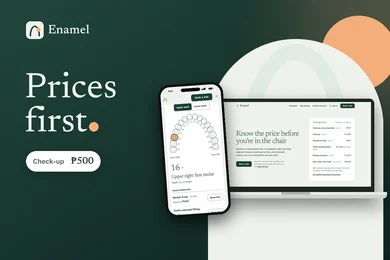
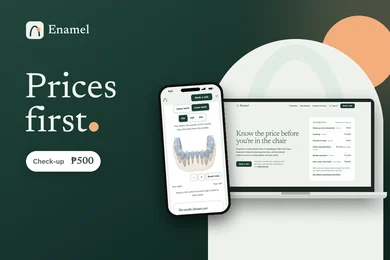
minor: Show two phone screens per project and refresh Enamel's images

Changed region(s): [[0.4308, 0.3692, 0.5846, 0.8308]]

diff --git a/app/works/enamel/index.html b/app/works/enamel/index.html
@@ -37,7 +37,7 @@
             <p class="mt-4 max-w-[32rem] text-lead">Prices first. A family dental clinic that shows what a visit costs before you book, and explains the HMO paperwork before the first visit.</p>
           </div>
           <div class="col-span-4 grid self-center md:col-span-5 lg:col-span-3 lg:col-start-9" data-reveal-item><svg class="w-full max-w-[16rem] justify-self-center lg:justify-self-end" viewBox="0 0 32 32" aria-hidden="true" focusable="false"><path class="fill-none stroke-enamel" d="M8 26C8 16.5 11.6 9 16 9s8 7.5 8 17" stroke-width="1.2" stroke-linecap="round" /><circle class="fill-enamel-dot" cx="22.4" cy="15" r="2.2" /></svg></div>
-          <dl class="col-span-4 grid gap-x-[var(--gap)] gap-y-5 sm:grid-cols-2 md:col-span-12 lg:col-span-10 lg:col-start-3 lg:grid-cols-4" data-reveal-item><div class="border-t border-enamel/30 pt-3"><dt class="text-sm font-[560]">Type</dt><dd class="mt-1">Family dental clinic</dd></div><div class="border-t border-enamel/30 pt-3"><dt class="text-sm font-[560]">What we made</dt><dd class="mt-1">The name, brand identity and a website with a tooth chart</dd></div><div class="border-t border-enamel/30 pt-3"><dt class="text-sm font-[560]">Timeline</dt><dd class="mt-1">Identity on day 1, the site on days 2 and 3</dd></div><div class="border-t border-enamel/30 pt-3"><dt class="text-sm font-[560]">Launched</dt><dd class="mt-1"><time datetime="2026-11-20">20 November 2026</time></dd></div></dl>
+          <dl class="col-span-4 grid gap-x-[var(--gap)] gap-y-5 sm:grid-cols-2 md:col-span-12 lg:col-span-10 lg:col-start-3 lg:grid-cols-4" data-reveal-item><div class="border-t border-enamel/30 pt-3"><dt class="text-sm font-[560]">Type</dt><dd class="mt-1">Family dental clinic</dd></div><div class="border-t border-enamel/30 pt-3"><dt class="text-sm font-[560]">What we made</dt><dd class="mt-1">The name, brand identity and a website with a 3D tooth chart</dd></div><div class="border-t border-enamel/30 pt-3"><dt class="text-sm font-[560]">Timeline</dt><dd class="mt-1">Identity on day 1, the site on days 2 and 3</dd></div><div class="border-t border-enamel/30 pt-3"><dt class="text-sm font-[560]">Launched</dt><dd class="mt-1"><time datetime="2026-11-20">20 November 2026</time></dd></div></dl>
         </div>
       </section>
 
@@ -46,14 +46,20 @@
         <div class="grid-page gap-y-8 pt-6">
           <p class="margin-no col-span-4 md:col-span-12 lg:col-span-2" aria-hidden="true" data-reveal-item>01</p>
           <h2 class="col-span-4 text-h3 md:col-span-12 lg:col-span-10" id="screens-title" data-reveal-item>Every price before the first visit</h2>
-          <figure class="flex flex-col col-span-4 md:col-span-9 lg:col-span-8 lg:col-start-3" data-reveal-item>
-            <img class="shot" src="/work/enamel-desktop-800.webp" srcset="/work/enamel-desktop-800.webp 800w, /work/enamel-desktop-1600.webp 1600w" sizes="(min-width: 88rem) 900px, (min-width: 64rem) 64vw, (min-width: 48rem) 72vw, 92vw" width="800" height="400" alt="Enamel’s treatments page on a desktop: a chart of teeth with the upper right first molar picked and its usual treatments listed" fetchpriority="high" />
-            <figcaption class="mt-auto pt-3 text-sm text-graphite">Tooth chart and prices, desktop</figcaption>
-          </figure>
-          <figure class="flex flex-col col-span-2 md:col-span-3 lg:col-span-2" data-reveal-item>
-            <img class="shot" src="/work/enamel-phone-390.webp" srcset="/work/enamel-phone-390.webp 390w, /work/enamel-phone-780.webp 780w" sizes="(min-width: 88rem) 210px, (min-width: 64rem) 15vw, (min-width: 48rem) 22vw, 45vw" width="390" height="780" alt="The tooth chart on a phone, one arch at a time, with a tooth picked" loading="lazy" />
-            <figcaption class="mt-auto pt-3 text-sm text-graphite">Tooth chart, phone</figcaption>
-          </figure>
+          <div class="col-span-4 grid grid-cols-2 gap-x-[var(--gap)] md:col-span-12 md:flex lg:col-span-10 lg:col-start-3 phone:grid">
+            <figure class="hidden flex-col md:flex md:basis-0 md:grow-4 phone:hidden" data-reveal-item>
+              <img class="shot" src="/work/enamel-desktop-800.webp" srcset="/work/enamel-desktop-800.webp 800w, /work/enamel-desktop-1600.webp 1600w" sizes="(min-width: 88rem) 750px, (min-width: 64rem) 52vw, 62vw" width="800" height="400" alt="Enamel’s treatments page on a desktop: the lower left first molar lifted out of the 3D model’s gum to show its roots, beside its usual treatments and starting prices" loading="lazy" />
+              <figcaption class="pt-3 text-sm text-graphite">3D tooth chart and prices, desktop</figcaption>
+            </figure>
+            <figure class="flex flex-col md:basis-0 md:grow" data-reveal-item>
+              <img class="shot" src="/work/enamel-phone-390.webp" srcset="/work/enamel-phone-390.webp 390w, /work/enamel-phone-780.webp 780w" sizes="(min-width: 88rem) 190px, (min-width: 64rem) 13vw, (min-width: 48rem) 15vw, 45vw" width="390" height="780" alt="Enamel’s 3D tooth model on a phone: the lower teeth seen from the front, with their roots showing through the gum" loading="lazy" />
+              <figcaption class="pt-3 text-sm text-graphite">3D tooth chart, phone</figcaption>
+            </figure>
+            <figure class="flex flex-col md:basis-0 md:grow" data-reveal-item>
+              <img class="shot" src="/work/enamel-booking-390.webp" srcset="/work/enamel-booking-390.webp 390w, /work/enamel-booking-780.webp 780w" sizes="(min-width: 88rem) 190px, (min-width: 64rem) 13vw, (min-width: 48rem) 15vw, 45vw" width="390" height="780" alt="A cleaning booked with Enamel on a phone: the treatment, the dentist, the time and the patient, with a preview of the six-month reminder below" loading="lazy" />
+              <figcaption class="pt-3 text-sm text-graphite">Booking confirmed, phone</figcaption>
+            </figure>
+          </div>
         </div>
       </section>
 
@@ -71,7 +77,7 @@
           </div>
           <div class="col-span-4 md:col-span-12 lg:col-span-8 lg:col-start-3" data-reveal-item>
             <h2 class="text-h3">What we made</h2>
-            <dl class="mt-3 border-b border-rule"><div class="grid gap-1 border-t border-rule py-3 sm:grid-cols-[9rem_minmax(0,1fr)] sm:gap-4"><dt class="font-[560]">Identity</dt><dd class="text-graphite">The name, the mark, the colour system and two typefaces</dd></div><div class="grid gap-1 border-t border-rule py-3 sm:grid-cols-[9rem_minmax(0,1fr)] sm:gap-4"><dt class="font-[560]">Website</dt><dd class="text-graphite">Treatments and prices, new patients, the team, booking and account, plus the company and legal pages</dd></div><div class="grid gap-1 border-t border-rule py-3 sm:grid-cols-[9rem_minmax(0,1fr)] sm:gap-4"><dt class="font-[560]">Tooth chart</dt><dd class="text-graphite">Pick a tooth to see its usual treatments and prices, then book a dentist and a time in five steps</dd></div></dl>
+            <dl class="mt-3 border-b border-rule"><div class="grid gap-1 border-t border-rule py-3 sm:grid-cols-[9rem_minmax(0,1fr)] sm:gap-4"><dt class="font-[560]">Identity</dt><dd class="text-graphite">The name, the mark, the colour system and two typefaces</dd></div><div class="grid gap-1 border-t border-rule py-3 sm:grid-cols-[9rem_minmax(0,1fr)] sm:gap-4"><dt class="font-[560]">Website</dt><dd class="text-graphite">Treatments and prices, new patients, the team, booking and account, plus the company and legal pages</dd></div><div class="grid gap-1 border-t border-rule py-3 sm:grid-cols-[9rem_minmax(0,1fr)] sm:gap-4"><dt class="font-[560]">3D tooth chart</dt><dd class="text-graphite">Turn a 3D model of the teeth and pick one to see its usual treatments and prices, then book a dentist and a time in five steps</dd></div></dl>
             <div class="mt-6 flex flex-wrap items-center gap-x-8 gap-y-4"><a class="button button--brand border-enamel bg-enamel text-enamel-ink hover:bg-enamel-ink hover:text-enamel" href="/enamel/" target="_blank" rel="noopener">Open Enamel<span class="sr-only"> (opens in a new tab)</span><i data-icon="arrow-up-right" data-weight="regular" class="size-4 flex-none"></i></a><p class="max-w-[34rem] text-sm text-graphite">A Marque studio project: we set the brief ourselves, so there’s no client to quote. Open it and try it.</p></div>
           </div>
         </div>

diff --git a/app/works/bayline/index.html b/app/works/bayline/index.html
@@ -51,14 +51,20 @@
         <div class="grid-page gap-y-8 pt-6">
           <p class="margin-no col-span-4 md:col-span-12 lg:col-span-2" aria-hidden="true" data-reveal-item>01</p>
           <h2 class="col-span-4 text-h3 md:col-span-12 lg:col-span-10" id="screens-title" data-reveal-item>Phone first, because that’s where the line is watched</h2>
-          <figure class="flex flex-col col-span-2 md:col-span-3 lg:col-span-2 lg:col-start-3" data-reveal-item>
-            <img class="shot" src="/work/bayline-phone-390.webp" srcset="/work/bayline-phone-390.webp 390w, /work/bayline-phone-780.webp 780w" sizes="(min-width: 88rem) 210px, (min-width: 64rem) 15vw, (min-width: 48rem) 22vw, 45vw" width="390" height="780" alt="Waiting in line on a phone: your wash, your place, second, about 8 minutes away, and the bays below with the cars in them" fetchpriority="high" />
-            <figcaption class="mt-auto pt-3 text-sm text-graphite">Your place in line, phone</figcaption>
-          </figure>
-          <figure class="flex flex-col col-span-4 md:col-span-9 lg:col-span-8" data-reveal-item>
-            <img class="shot" src="/work/bayline-desktop-800.webp" srcset="/work/bayline-desktop-800.webp 800w, /work/bayline-desktop-1600.webp 1600w" sizes="(min-width: 88rem) 900px, (min-width: 64rem) 64vw, (min-width: 48rem) 72vw, 92vw" width="800" height="400" alt="Booking a time at Bayline on a desktop: today’s start times with the past and taken ones struck through, a plate number, GCash picked and a red Book 11:00 AM button" loading="lazy" />
-            <figcaption class="mt-auto pt-3 text-sm text-graphite">Join the line or book a time, desktop</figcaption>
-          </figure>
+          <div class="col-span-4 grid grid-cols-2 gap-x-[var(--gap)] md:col-span-12 md:flex lg:col-span-10 lg:col-start-3 phone:grid">
+            <figure class="flex flex-col md:basis-0 md:grow" data-reveal-item>
+              <img class="shot" src="/work/bayline-phone-390.webp" srcset="/work/bayline-phone-390.webp 390w, /work/bayline-phone-780.webp 780w" sizes="(min-width: 88rem) 190px, (min-width: 64rem) 13vw, (min-width: 48rem) 15vw, 45vw" width="390" height="780" alt="Waiting in line on a phone: your wash, your place, second, about 8 minutes away, and the bays below with the cars in them" loading="lazy" />
+              <figcaption class="pt-3 text-sm text-graphite">Your place in line, phone</figcaption>
+            </figure>
+            <figure class="flex flex-col md:basis-0 md:grow" data-reveal-item>
+              <img class="shot" src="/work/bayline-prices-390.webp" srcset="/work/bayline-prices-390.webp 390w, /work/bayline-prices-780.webp 780w" sizes="(min-width: 88rem) 190px, (min-width: 64rem) 13vw, (min-width: 48rem) 15vw, 45vw" width="390" height="780" alt="Bayline’s prices on a phone for a medium vehicle: the express wash and the engine wash ticked, with the total and the time beside a red Join the line button" loading="lazy" />
+              <figcaption class="pt-3 text-sm text-graphite">Prices for your vehicle, phone</figcaption>
+            </figure>
+            <figure class="hidden flex-col md:flex md:basis-0 md:grow-4 phone:hidden" data-reveal-item>
+              <img class="shot" src="/work/bayline-desktop-800.webp" srcset="/work/bayline-desktop-800.webp 800w, /work/bayline-desktop-1600.webp 1600w" sizes="(min-width: 88rem) 750px, (min-width: 64rem) 52vw, 62vw" width="800" height="400" alt="Booking a time at Bayline on a desktop: today’s start times with the past and taken ones struck through, a plate number, GCash picked and a red Book 11:00 AM button" loading="lazy" />
+              <figcaption class="pt-3 text-sm text-graphite">Join the line or book a time, desktop</figcaption>
+            </figure>
+          </div>
         </div>
       </section>
 

diff --git a/tests/pages.test.ts b/tests/pages.test.ts
@@ -361,7 +361,13 @@ test('each project has its own page, led by its own colour and mark, with screen
     assert.ok(page.includes(`<h1 class="mt-6" id="work-title">${work.name}</h1>`), `${site}: its name`)
     assert.match(page, new RegExp(`class="[^"]*\\b(?:fill|stroke)-${site}(?:"| )`), `${site}: its mark, in its colour (inverted where the hero is that colour)`)
     assert.ok(page.includes(`<time datetime="${work.launched}">`), `${site}: launch date`)
-    assert.ok(page.includes(`src="/work/${site}-desktop-800.webp"`) && page.includes(`src="/work/${site}-phone-390.webp"`), `${site}: desktop and phone screens`)
+    const shots = [...page.matchAll(/<figure class="([^"]*)"[^>]*>\s*<img [^>]*src="\/work\/([a-z]+-[a-z]+)-\d+\.webp"/g)].map(([, names, file]) => ({ names, file }))
+    const desktop = shots.filter((s) => s.file === `${site}-desktop`)
+    const phones = shots.filter((s) => s.file !== `${site}-desktop`)
+    assert.ok(desktop.length === 1 && phones.length === 2 && phones.some((s) => s.file === `${site}-phone`), `${site}: a desktop screen and two phone screens`)
+    assert.match(desktop[0].names, /^hidden .*\bmd:flex\b.*\bphone:hidden\b/, `${site}: on a phone, only the phone screens show, even with the browser asking for the desktop site; elsewhere the desktop screen joins them from 48rem`)
+    assert.match(page, /<div class="col-span-4 grid grid-cols-2 [^"]*\bmd:flex\b[^"]*\bphone:grid\b/, `${site}: and a phone keeps them two to a row`)
+    assert.ok(/\bmd:grow-4\b/.test(desktop[0].names) && phones.every((p) => /\bmd:grow(?: |$)/.test(p.names)), `${site}: the desktop screen (2:1) takes four times a phone screen’s (1:2) share of the row`)
     for (const heading of ['The brief', 'What we did', 'What we made']) assert.ok(page.includes(`>${heading}</h2>`), `${site}: ${heading}`)
     assert.match(page, /<dt[^>]*>Timeline<\/dt>/, `${site}: services and timeline`)
     assert.ok(page.includes(`href="${LIVE_SITES[site]}" target="_blank" rel="noopener">Open ${work.name}<span class="sr-only"> (opens in a new tab)</span>`), `${site}: opens the live site in a new tab`)
@@ -928,7 +934,11 @@ test('titles read "Page name, Marque", and the share image describes the studio 
 test('project captions share a baseline, and hovers that trade two colours outright do it at once, never fading through grey', () => {
   for (const id of WORK_PAGES) {
     const page = mainOf(source[id])
-    assert.ok(count(page, 'figcaption class="mt-auto pt-3') >= 2, `${id}: the two screen captions sit at the bottom of equal-height figures`)
+    const screens = page.slice(page.indexOf('aria-labelledby="screens-title"'), page.indexOf('</section>', page.indexOf('aria-labelledby="screens-title"')))
+    const figures = [...screens.matchAll(/<figure class="([^"]*)"/g)].map(([, names]) => names)
+    // Widths in the shots' own proportions (desktop 2:1, phone 1:2) make every shot the same height, so the captions line up.
+    assert.ok(figures.length === 3 && figures.every((names) => /\bmd:basis-0 md:grow(?:-4)?(?: |$)/.test(names)), `${id}: each shot’s share of the row follows its shape, so the shots and their captions line up`)
+    assert.match(screens, /<div class="col-span-4 grid grid-cols-2 [^"]*md:flex[ "]/, `${id}: two phone screens to a row on a phone, one row of three from 48rem`)
   }
   for (const id of ['usual', 'enamel'] as const) assert.match(mainOf(source[id]), /<a class="button button--brand [^"]*hover:bg-/, `${id}: the project button swaps its brand colours instead of taking the square`)
   for (const page of PAGES) assert.doesNotMatch(mainOf(source[page.id]), /transition-colors/, `${page.id}: no colour fade where background and text swap`)

diff --git a/app/works/usual/index.html b/app/works/usual/index.html
@@ -46,14 +46,20 @@
         <div class="grid-page gap-y-8 pt-6">
           <p class="margin-no col-span-4 md:col-span-12 lg:col-span-2" aria-hidden="true" data-reveal-item>01</p>
           <h2 class="col-span-4 text-h3 md:col-span-12 lg:col-span-10" id="screens-title" data-reveal-item>The site</h2>
-          <figure class="flex flex-col col-span-4 md:col-span-9 lg:col-span-8 lg:col-start-3" data-reveal-item>
-            <img class="shot" src="/work/usual-desktop-800.webp" srcset="/work/usual-desktop-800.webp 800w, /work/usual-desktop-1600.webp 1600w" sizes="(min-width: 88rem) 900px, (min-width: 64rem) 64vw, (min-width: 48rem) 72vw, 92vw" width="800" height="400" alt="Usual’s item sheet on a desktop: the Spanish latte’s photo beside its size, hot or iced and milk choices, with the quantity and the Add to bag button" fetchpriority="high" />
-            <figcaption class="mt-auto pt-3 text-sm text-graphite">Item sheet, desktop</figcaption>
-          </figure>
-          <figure class="flex flex-col col-span-2 md:col-span-3 lg:col-span-2" data-reveal-item>
-            <img class="shot" src="/work/usual-phone-390.webp" srcset="/work/usual-phone-390.webp 390w, /work/usual-phone-780.webp 780w" sizes="(min-width: 88rem) 210px, (min-width: 64rem) 15vw, (min-width: 48rem) 22vw, 45vw" width="390" height="780" alt="An order placed on a phone: ready at 9:00 AM at IT Park, with the first stamp on the card" loading="lazy" />
-            <figcaption class="mt-auto pt-3 text-sm text-graphite">Order ahead, phone</figcaption>
-          </figure>
+          <div class="col-span-4 grid grid-cols-2 gap-x-[var(--gap)] md:col-span-12 md:flex lg:col-span-10 lg:col-start-3 phone:grid">
+            <figure class="hidden flex-col md:flex md:basis-0 md:grow-4 phone:hidden" data-reveal-item>
+              <img class="shot" src="/work/usual-desktop-800.webp" srcset="/work/usual-desktop-800.webp 800w, /work/usual-desktop-1600.webp 1600w" sizes="(min-width: 88rem) 750px, (min-width: 64rem) 52vw, 62vw" width="800" height="400" alt="Usual’s item sheet on a desktop: the Spanish latte’s photo beside its size, hot or iced and milk choices, with the quantity and the Add to bag button" loading="lazy" />
+              <figcaption class="pt-3 text-sm text-graphite">Item sheet, desktop</figcaption>
+            </figure>
+            <figure class="flex flex-col md:basis-0 md:grow" data-reveal-item>
+              <img class="shot" src="/work/usual-phone-390.webp" srcset="/work/usual-phone-390.webp 390w, /work/usual-phone-780.webp 780w" sizes="(min-width: 88rem) 190px, (min-width: 64rem) 13vw, (min-width: 48rem) 15vw, 45vw" width="390" height="780" alt="An order placed on a phone: ready at 9:00 AM at IT Park, with the first stamp on the card" loading="lazy" />
+              <figcaption class="pt-3 text-sm text-graphite">Order ahead, phone</figcaption>
+            </figure>
+            <figure class="flex flex-col md:basis-0 md:grow" data-reveal-item>
+              <img class="shot" src="/work/usual-menu-390.webp" srcset="/work/usual-menu-390.webp 390w, /work/usual-menu-780.webp 780w" sizes="(min-width: 88rem) 190px, (min-width: 64rem) 13vw, (min-width: 48rem) 15vw, 45vw" width="390" height="780" alt="Usual’s coffee list on a phone: each drink with its photo, a line about it and the price it starts from" loading="lazy" />
+              <figcaption class="pt-3 text-sm text-graphite">Coffee menu, phone</figcaption>
+            </figure>
+          </div>
         </div>
       </section>
 

diff --git a/app/works/index.html b/app/works/index.html
@@ -63,10 +63,10 @@
             </li>
             <li data-work data-name="Enamel" data-launched="2026-11-20">
               <a class="work-card" href="/marque/works/enamel/">
-                <span class="work-frame"><picture><source media="(max-width: 47.99rem)" srcset="/work/enamel-card-390.webp 390w, /work/enamel-card-780.webp 780w" sizes="92vw" width="390" height="260" /><img class="block h-auto w-full" src="/work/enamel-cover-800.webp" srcset="/work/enamel-cover-800.webp 800w, /work/enamel-cover-1600.webp 1600w" sizes="(min-width: 94rem) 573px, (min-width: 64rem) 40vw, (min-width: 48rem) 48vw, 92vw" width="800" height="400" alt="Enamel: Prices first, starting prices for a check-up and a cleaning, the home page with its starting prices on a laptop inside a porcelain arch, and the tooth chart on a phone" loading="lazy" /></picture></span>
+                <span class="work-frame"><picture><source media="(max-width: 47.99rem)" srcset="/work/enamel-card-390.webp 390w, /work/enamel-card-780.webp 780w" sizes="92vw" width="390" height="260" /><img class="block h-auto w-full" src="/work/enamel-cover-800.webp" srcset="/work/enamel-cover-800.webp 800w, /work/enamel-cover-1600.webp 1600w" sizes="(min-width: 94rem) 573px, (min-width: 64rem) 40vw, (min-width: 48rem) 48vw, 92vw" width="800" height="400" alt="Enamel: Prices first, starting prices for a check-up and a cleaning, the home page with its starting prices on a laptop inside a porcelain arch, and the 3D tooth chart on a phone" loading="lazy" /></picture></span>
                 <span class="mt-4 flex flex-wrap items-baseline justify-between gap-x-4 gap-y-1"><span class="inline-flex items-center gap-[0.4em] text-h3 font-[560]"><svg class="size-[0.95em] flex-none" viewBox="0 0 32 32" aria-hidden="true" focusable="false"><rect class="fill-enamel" width="32" height="32" rx="8" /><path class="fill-none stroke-enamel-ink" d="M8 26C8 16.5 11.6 9 16 9s8 7.5 8 17" stroke-width="2.6" stroke-linecap="round" /><circle class="fill-enamel-dot" cx="22.4" cy="15" r="3.6" /></svg>Enamel</span><span class="text-sm text-graphite">Dental clinic</span></span>
                 <span class="mt-2 block max-w-[34rem]">A dental clinic with every starting price up front.</span>
-                <span class="mt-3 grid gap-x-4 gap-y-1 border-t border-rule pt-3 text-sm sm:grid-cols-[7.5rem_minmax(0,1fr)]"><span class="text-graphite">What we made</span><span>Name, brand identity, website with a tooth chart</span><span class="text-graphite">Launched</span><time datetime="2026-11-20">20 November 2026</time></span>
+                <span class="mt-3 grid gap-x-4 gap-y-1 border-t border-rule pt-3 text-sm sm:grid-cols-[7.5rem_minmax(0,1fr)]"><span class="text-graphite">What we made</span><span>Name, brand identity, website with a 3D tooth chart</span><span class="text-graphite">Launched</span><time datetime="2026-11-20">20 November 2026</time></span>
               </a>
             </li>
             <li data-work data-name="Usual" data-launched="2026-11-19">

diff --git a/app/index.html b/app/index.html
@@ -80,7 +80,7 @@
             <span class="work-made mt-1 block text-sm">Identity and a booking site with a live line</span>
           </a>
           <a class="work-card col-span-4 md:col-span-6 lg:col-span-5 lg:col-start-3" href="/marque/works/enamel/" data-reveal-item>
-            <span class="work-frame"><picture><source media="(max-width: 47.99rem)" srcset="/work/enamel-card-390.webp 390w, /work/enamel-card-780.webp 780w" sizes="92vw" width="390" height="260" /><img class="block h-auto w-full" src="/work/enamel-cover-800.webp" srcset="/work/enamel-cover-800.webp 800w, /work/enamel-cover-1600.webp 1600w" sizes="(min-width: 94rem) 573px, (min-width: 64rem) 40vw, (min-width: 48rem) 48vw, 92vw" width="800" height="400" alt="Enamel: Prices first, starting prices for a check-up and a cleaning, the home page with its starting prices on a laptop inside a porcelain arch, and the tooth chart on a phone" loading="lazy" /></picture></span>
+            <span class="work-frame"><picture><source media="(max-width: 47.99rem)" srcset="/work/enamel-card-390.webp 390w, /work/enamel-card-780.webp 780w" sizes="92vw" width="390" height="260" /><img class="block h-auto w-full" src="/work/enamel-cover-800.webp" srcset="/work/enamel-cover-800.webp 800w, /work/enamel-cover-1600.webp 1600w" sizes="(min-width: 94rem) 573px, (min-width: 64rem) 40vw, (min-width: 48rem) 48vw, 92vw" width="800" height="400" alt="Enamel: Prices first, starting prices for a check-up and a cleaning, the home page with its starting prices on a laptop inside a porcelain arch, and the 3D tooth chart on a phone" loading="lazy" /></picture></span>
             <span class="mt-4 flex flex-wrap items-baseline justify-between gap-x-4"><span class="inline-flex items-center gap-[0.4em] text-h3 font-[560]"><svg class="size-[0.95em] flex-none" viewBox="0 0 32 32" aria-hidden="true" focusable="false"><rect class="fill-enamel" width="32" height="32" rx="8" /><path class="fill-none stroke-enamel-ink" d="M8 26C8 16.5 11.6 9 16 9s8 7.5 8 17" stroke-width="2.6" stroke-linecap="round" /><circle class="fill-enamel-dot" cx="22.4" cy="15" r="3.6" /></svg>Enamel</span><span class="text-sm text-graphite">Dental clinic, Cebu City</span></span>
             <span class="work-made mt-1 block text-sm">Identity and a website with every price up front</span>
           </a>

diff --git a/app/styles/main.css b/app/styles/main.css
@@ -91,6 +91,10 @@
   }
 }
 
+/* A phone, even when its browser asks for the desktop site: that mode lays the page out 980px wide, but the screen is
+   still phone-sized and the pointer still a finger. Used where a phone should keep the phone version of something. */
+@custom-variant phone (@media (pointer: coarse) and (max-device-width: 47.99rem));
+
 @utility wrap {
   width: min(100% - 2 * var(--spacing-gutter), var(--container-page));
   margin-inline: auto;
@@ -646,11 +650,14 @@
     }
   }
 
+  /* The rule is an inset outline, not a border, so it adds nothing to the size: shots in a row whose widths follow
+     their shapes then come out exactly the same height. */
   .shot {
     display: block;
     width: 100%;
     height: auto;
-    border: 1px solid var(--color-rule);
+    outline: 1px solid var(--color-rule);
+    outline-offset: -1px;
     background-color: var(--color-shade);
   }
 
